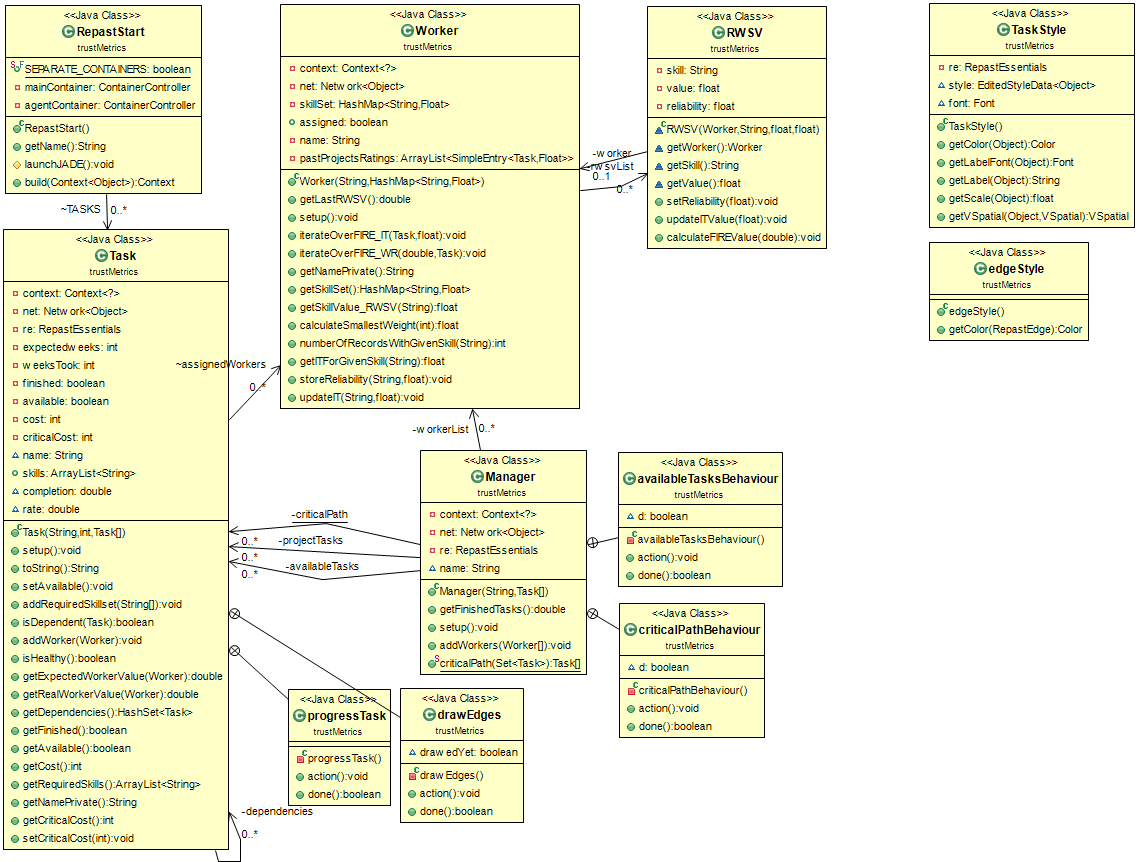
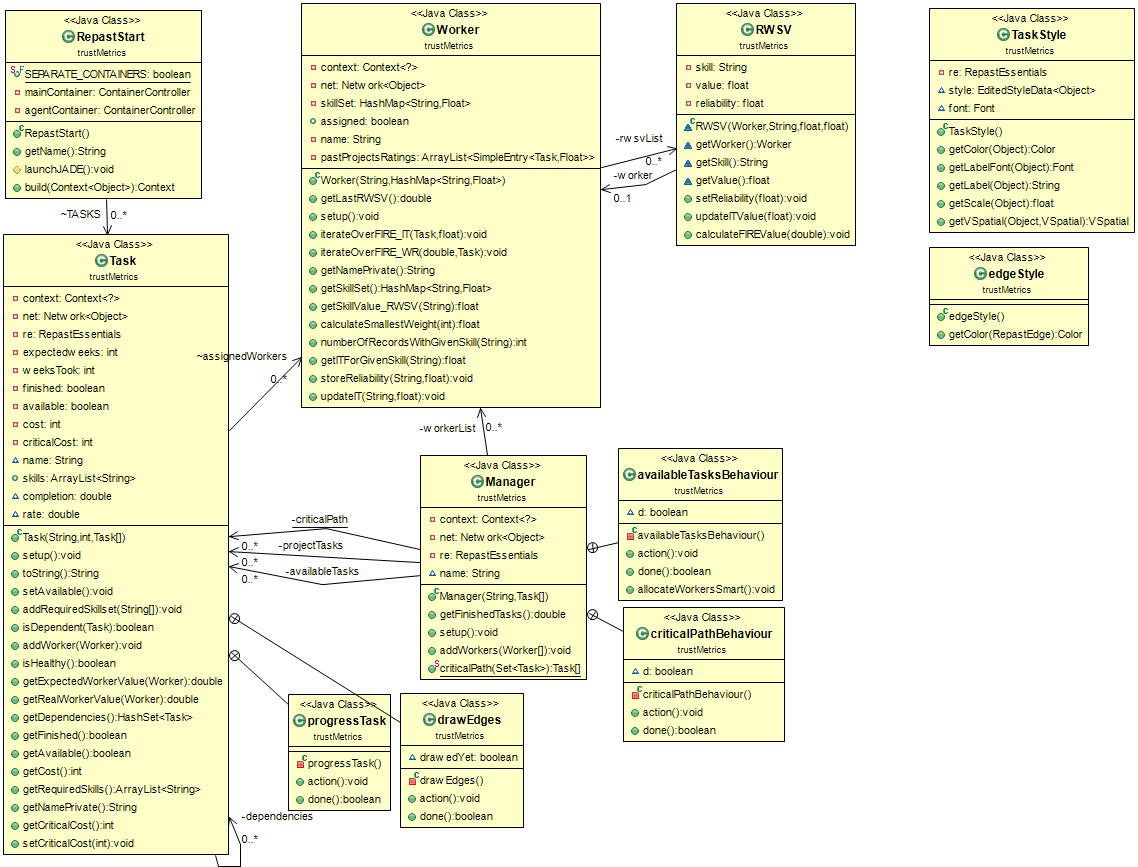
Improved Stuff

diff --git a/src/trustMetrics/Manager.java b/src/trustMetrics/Manager.java
@@ -131,6 +131,7 @@ public class Manager extends Agent{
 					if(t.getNamePrivate().equals("End"))
 					{
 						t.setAvailable();
+						t.completion = 100;
 						System.out.println("Manager - Project Complete. "+ "("+(re.GetTickCount()/ 10)+" weeks).");
 						d = true;
 						RunEnvironment.getInstance().endRun();
@@ -143,11 +144,15 @@ public class Manager extends Agent{
 					}
 				}
 			}
-			/* WORKER ALLOCATION
-			 * 
-			 * 
-			 * 
-			 */
+			allocateWorkersSmart();		
+		}
+		@Override
+		public boolean done() {
+			// TODO Auto-generated method stub
+			return d;
+		}
+		public void allocateWorkersSmart()
+		{
 			for(Task t: criticalPath)
 			{
 				if(availableTasks.contains(t))
@@ -189,11 +194,6 @@ public class Manager extends Agent{
 					}
 				}
 			}
-		}
-		@Override
-		public boolean done() {
-			// TODO Auto-generated method stub
-			return d;
 		}
 		
 	}

diff --git a/src/trustMetrics/Task.java b/src/trustMetrics/Task.java
@@ -2,6 +2,7 @@ package trustMetrics;
 
 import java.awt.Color;
 import java.lang.reflect.Field;
+import java.text.DecimalFormat;
 import java.util.ArrayList;
 import java.util.HashSet;
 import java.util.Random;
@@ -72,7 +73,10 @@ public class Task extends Agent {
 			this.dependencies.add(t);
 		}
 		if (name.equals("Start"))
+		{
 			finished = true;
+			completion = 100;
+		}
 		else
 			finished = false;
 	}
@@ -98,7 +102,10 @@ public class Task extends Agent {
 
 	@Override
 	public String toString() {
-		return name + ": " + criticalCost;
+		int printCompletion = 0;
+		if(completion >= 100) printCompletion = 100;
+		else printCompletion = (int) completion;
+		return name + ": " + printCompletion +"%";
 	}
 
 	public void setAvailable() {
